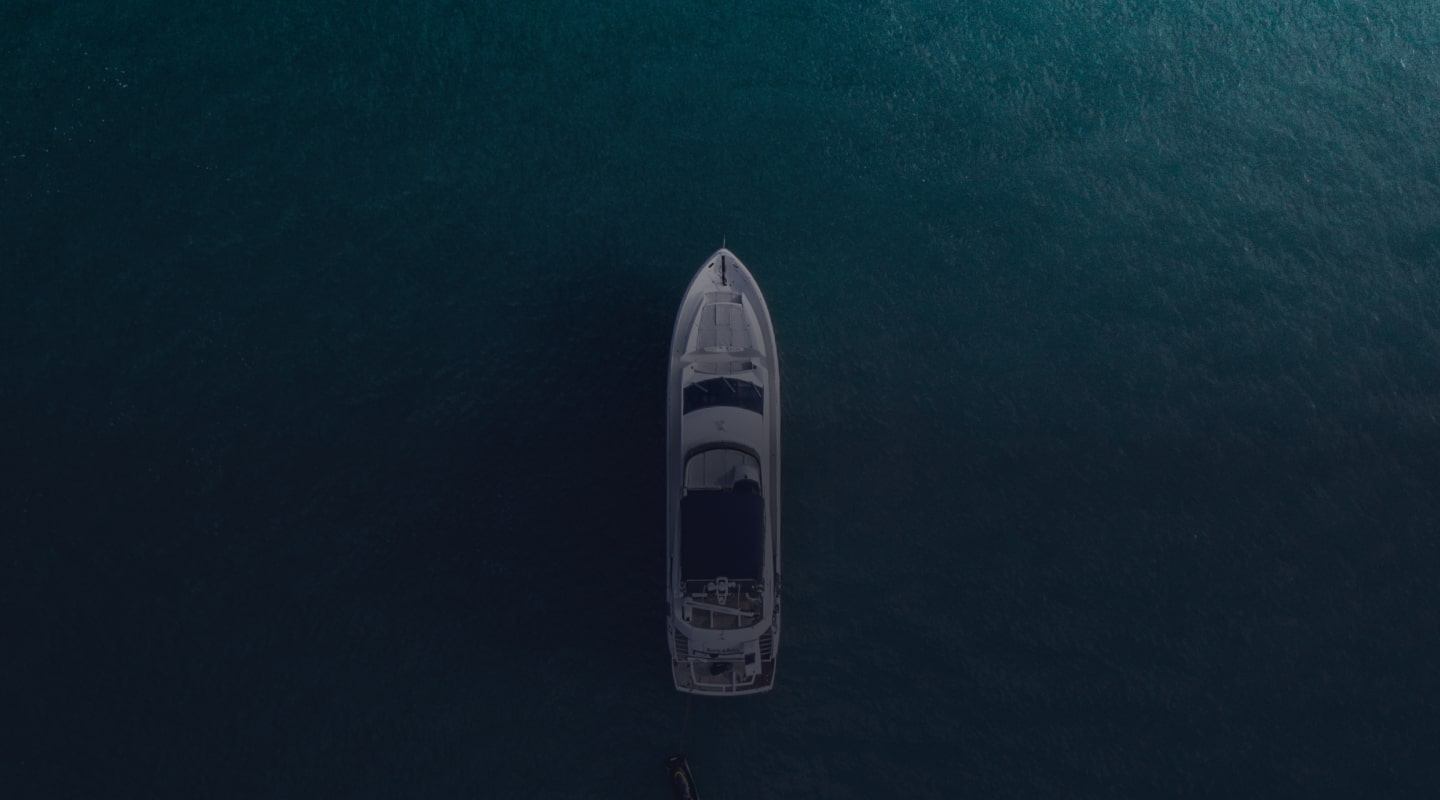
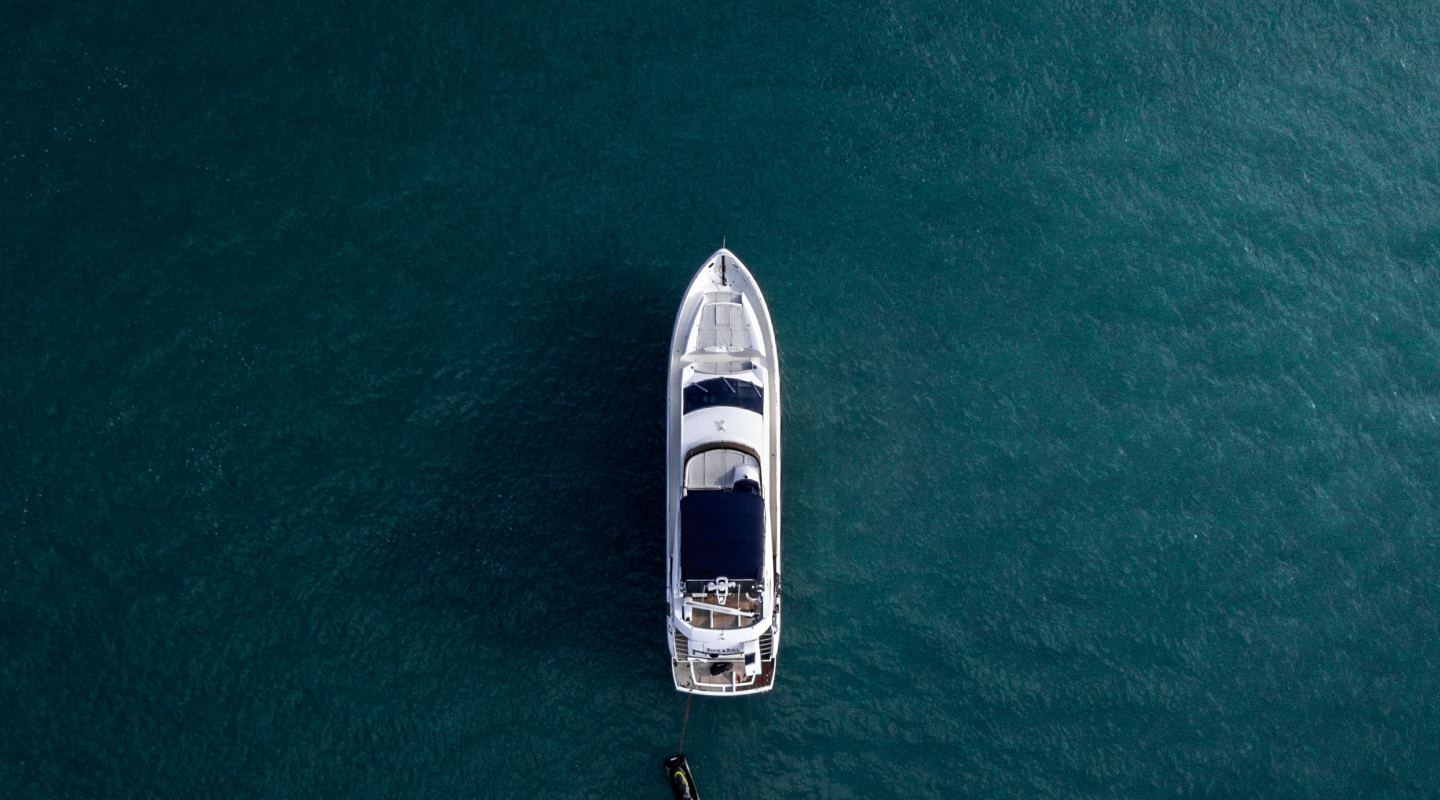
tp v12

diff --git a/src/css/hero.css b/src/css/hero.css
@@ -1,7 +1,12 @@
 .hero-container {
   padding-top: 260px;
   padding-bottom: 302px;
-  background-image: linear-gradient(rgba(0, 0, 0, 0.2), rgba(0, 0, 0, 0.2)),
+  background-image: linear-gradient(
+      360deg,
+      rgba(17, 19, 31, 0.8) 15.05%,
+      rgba(17, 19, 31, 0.8) 75.3%,
+      rgba(17, 19, 31, 0.8) 98.27%
+    ),
     url('/img/mobile/hero-mob.jpg');
   background-size: cover;
   background-repeat: no-repeat;
@@ -9,10 +14,30 @@
 }
 
 .hero-title {
+  font-weight: 500;
+  line-height: 1;
   font-size: 32px;
+  letter-spacing: -0.02em;
+  color: #fbfbfb;
+  text-align: center;
   max-width: 100%;
   height: 86px;
-  margin-bottom: 24px;
+  margin: 0 auto 24px;
+}
+@media screen and (min-width: 768px) {
+  .hero-title {
+    font-size: 70px;
+    width: 704px;
+    height: 210px;
+  }
+}
+
+@media screen and (min-width: 1280px) {
+  .hero-title {
+    font-size: 80px;
+    width: 1000px;
+    height: 160px;
+  }
 }
 
 .hero-text {
@@ -44,32 +69,28 @@
   (min-resolution: 2dppx),
   (min-resolution: 192dpi) {
   .hero-container {
-    background-image: linear-gradient(rgba(0, 0, 0, 0.2), rgba(0, 0, 0, 0.2)),
+    background-image: linear-gradient(
+        360deg,
+        rgba(17, 19, 31, 0.8) 15.05%,
+        rgba(17, 19, 31, 0.8) 75.3%,
+        rgba(17, 19, 31, 0.8) 98.27%
+      ),
       url('/img/mobile/hero-mob@2x.jpg');
-  }
-}
-
-@media screen and (max-width: 330px) {
-  .hero-title {
-    font-size: 30px;
   }
 }
 
 @media screen and (min-width: 768px) {
   .hero-container {
     max-width: 100%;
-    background-image: linear-gradient(rgba(0, 0, 0, 0.2), rgba(0, 0, 0, 0.2)),
+    background-image: linear-gradient(
+        360deg,
+        rgba(17, 19, 31, 0.8) 15.05%,
+        rgba(17, 19, 31, 0.8) 75.3%,
+        rgba(17, 19, 31, 0.8) 98.27%
+      ),
       url('/img/tablet/hero-tab.jpg');
     padding-top: 280px;
     padding-bottom: 282px;
-  }
-
-  .hero-title {
-    font-size: 70px;
-    width: 704px;
-    height: 210px;
-    margin-bottom: 24px;
-    text-align: center;
   }
 
   .one-line {
@@ -93,7 +114,12 @@
     (min-resolution: 2dppx),
     (min-resolution: 192dpi) {
     .hero-container {
-      background-image: linear-gradient(rgba(0, 0, 0, 0.2), rgba(0, 0, 0, 0.2)),
+      background-image: linear-gradient(
+          360deg,
+          rgba(17, 19, 31, 0.8) 15.05%,
+          rgba(17, 19, 31, 0.8) 75.3%,
+          rgba(17, 19, 31, 0.8) 98.27%
+        ),
         url('/img/tablet/hero-tab@2x.jpg');
     }
   }
@@ -103,16 +129,12 @@
   .hero-container {
     padding-top: 235px;
     padding-bottom: 215px;
-    background-image: linear-gradient(rgba(0, 0, 0, 0.2), rgba(0, 0, 0, 0.2)),
-      url('/img/desktop-middle/hero-desk-1280.jpg');
-  }
-
-  .hero-title {
-    font-size: 80px;
-    width: 1001px;
-    height: 160px;
-    margin: 0 auto 24px;
-    text-align: center;
+    background-image: linear-gradient(
+      360deg,
+      rgba(17, 19, 31, 0.8) 15.05%,
+      rgba(17, 19, 31, 0.8) 75.3%,
+      rgba(17, 19, 31, 0.8) 98.27%
+    );
   }
 
   .one-line {
@@ -123,7 +145,12 @@
     (min-resolution: 2dppx),
     (min-resolution: 192dpi) {
     .hero-container {
-      background-image: linear-gradient(rgba(0, 0, 0, 0.2), rgba(0, 0, 0, 0.2)),
+      background-image: linear-gradient(
+          360deg,
+          rgba(17, 19, 31, 0.8) 15.05%,
+          rgba(17, 19, 31, 0.8) 75.3%,
+          rgba(17, 19, 31, 0.8) 98.27%
+        ),
         url('/img/desktop-middle/hero-desk-1280@2x.jpg');
     }
   }
@@ -133,7 +160,12 @@
   .hero-container {
     padding-top: 235px;
     padding-bottom: 215px;
-    background-image: linear-gradient(rgba(0, 0, 0, 0.2), rgba(0, 0, 0, 0.2)),
+    background-image: linear-gradient(
+        360deg,
+        rgba(17, 19, 31, 0.8) 15.05%,
+        rgba(17, 19, 31, 0.8) 75.3%,
+        rgba(17, 19, 31, 0.8) 98.27%
+      ),
       url('/img/desktop-full/hero-desk-1440.jpg');
   }
 
@@ -141,7 +173,12 @@
     (min-resolution: 2dppx),
     (min-resolution: 192dpi) {
     .hero-container {
-      background-image: linear-gradient(rgba(0, 0, 0, 0.2), rgba(0, 0, 0, 0.2)),
+      background-image: linear-gradient(
+          360deg,
+          rgba(17, 19, 31, 0.8) 15.05%,
+          rgba(17, 19, 31, 0.8) 75.3%,
+          rgba(17, 19, 31, 0.8) 98.27%
+        ),
         url('/img/desktop-full/hero-desk-1440@2x.jpg');
     }
   }

diff --git a/src/partials/hero.html b/src/partials/hero.html
@@ -1,8 +1,7 @@
 <section class="hero">
   <div class="container hero-container">
-    <h1 class="section-title hero-title">
-      <span class="one-line"> Explore the High</span
-      ><span class="two-line"> Seas with Our Luxury</span> Yacht Rentals
+    <h1 class="hero-title">
+      Explore the High Seas with Our Luxury Yacht Rentals
     </h1>
 
     <p class="text hero-text">

diff --git a/src/partials/our-yachts.html b/src/partials/our-yachts.html
@@ -183,8 +183,6 @@
       </li>
     </ul>
 
-    <button type="button" class="main-btn rent-btn" id="rent">
-      Yacht rental
-    </button>
+    <button type="button" class="main-btn rent-btn">Yacht rental</button>
   </div>
 </section>
